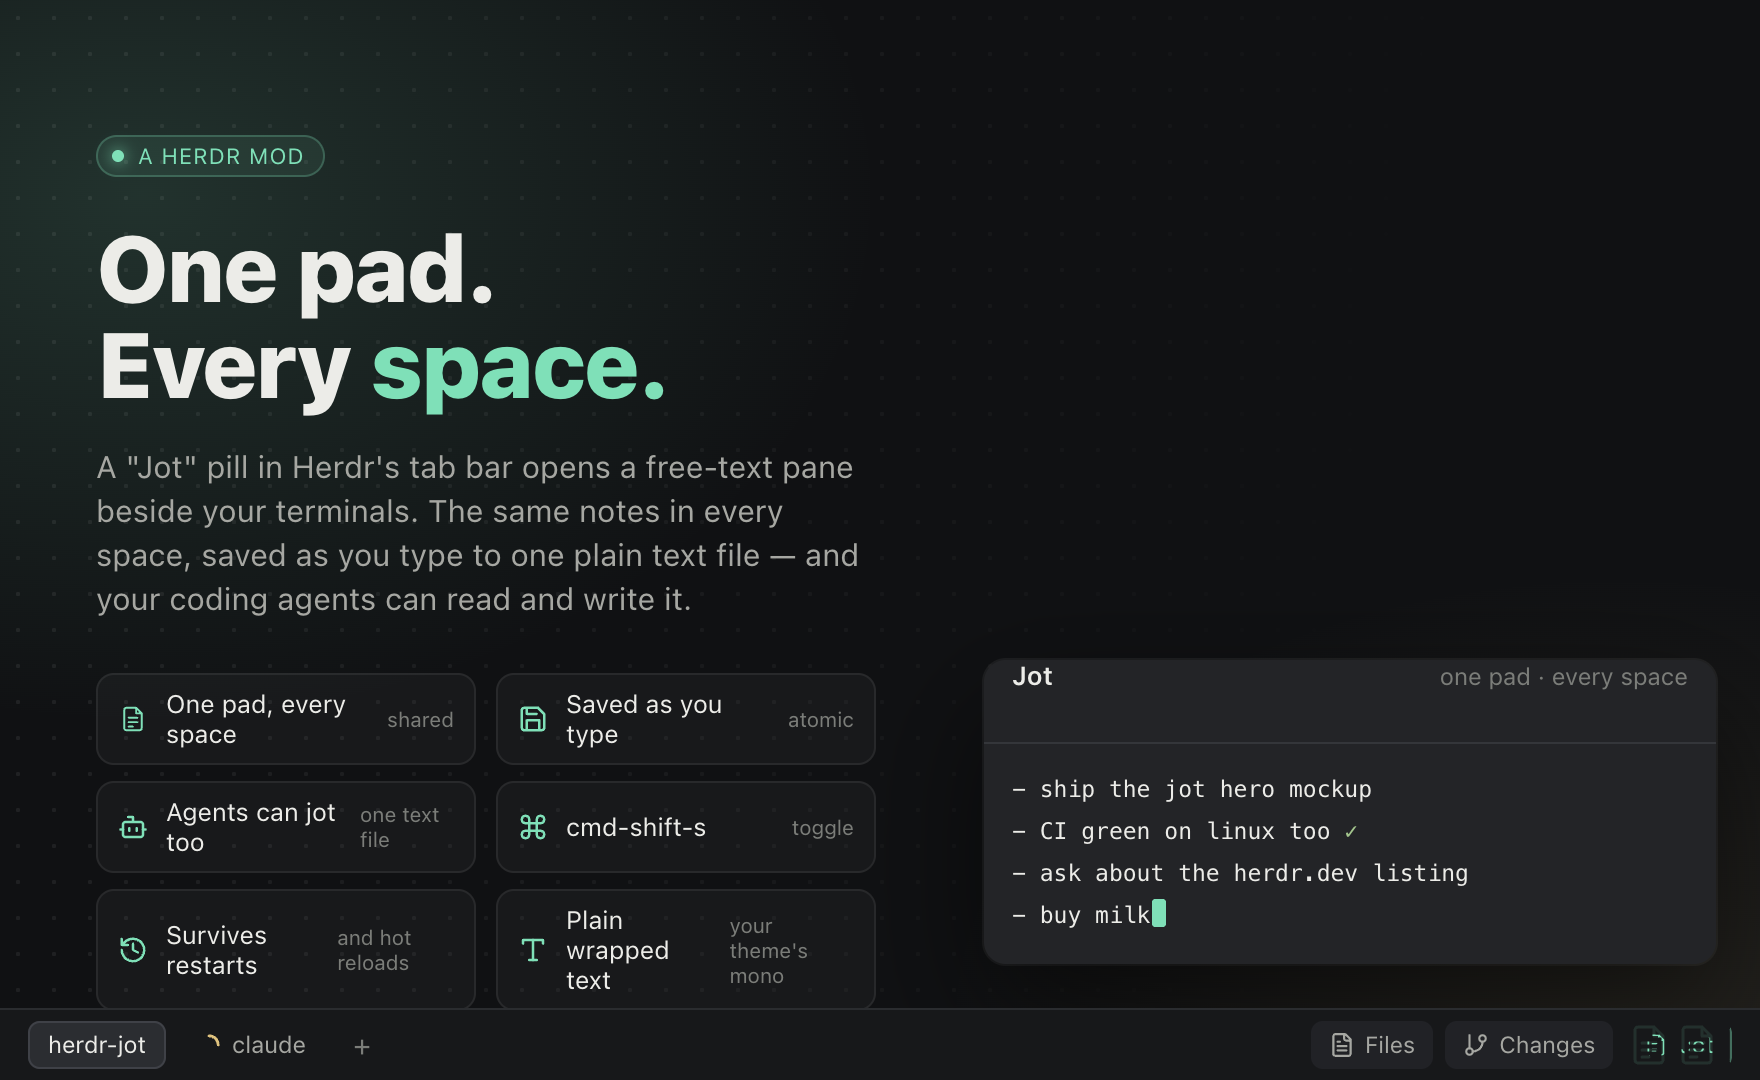
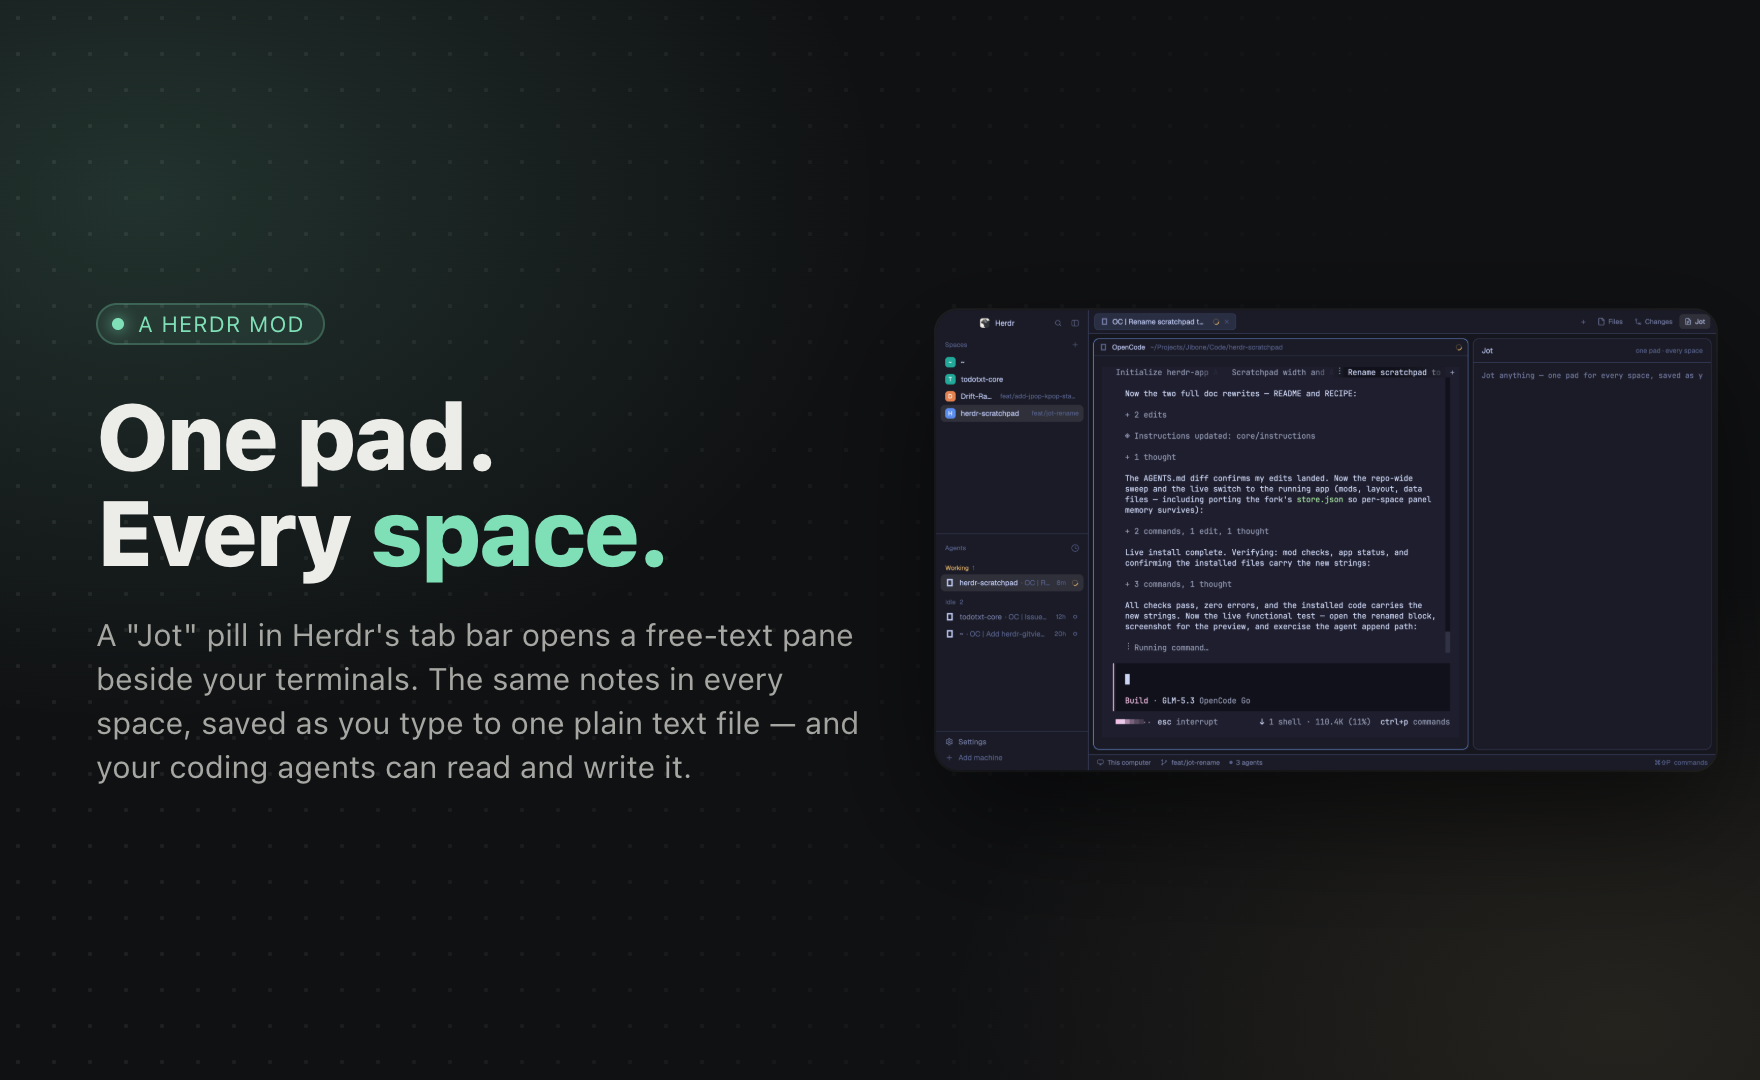
Rework the hero around the real screenshot
The 6-chip roster, the mock jot card and the fake tab strip are gone; the
right side now frames the real window screenshot (recovered from git as
assets/screenshot.png). README gains a 'What it looks like' section with
the real screenshot; RECIPE's illustration points at it too; Credits and
AGENTS.md follow.

diff --git a/assets/src/hero.html b/assets/src/hero.html
@@ -1,11 +1,8 @@
 <!doctype html>
 <html><head><meta charset="utf-8">
-<link rel="stylesheet" href="icons.css">
 <style>
   :root {
-    --fg: #ecece8; --muted: #a6a7a2; --dim: #7b7d79; --line: #34363a;
-    --ok: #a3c58d; --panel: #232427; --mint: #7fe0b8; --chrome: #17181a;
-    --raised: #2b2d31; --edge: #3f4147;
+    --fg: #ecece8; --muted: #a6a7a2; --mint: #7fe0b8;
   }
   * { box-sizing: border-box; margin: 0; padding: 0; }
   html, body { width: 880px; height: 540px; overflow: hidden; }
@@ -24,7 +21,7 @@
     -webkit-mask-image: linear-gradient(100deg, #000 0%, rgba(0,0,0,.55) 45%, transparent 75%);
   }
 
-  .copy { position: absolute; left: 48px; top: 66px; width: 410px; }
+  .copy { position: absolute; left: 48px; top: 150px; width: 410px; }
   .eyebrow { display: inline-flex; align-items: center; gap: 7px; font-size: 11px; letter-spacing: .6px;
     text-transform: uppercase; color: var(--mint); padding: 4px 10px 4px 8px; border-radius: 999px;
     background: rgba(127,224,184,.08); box-shadow: inset 0 0 0 1px rgba(127,224,184,.25); }
@@ -33,88 +30,19 @@
   h1 em { font-style: normal; color: var(--mint); }
   .lede { margin-top: 16px; font-size: 15.5px; line-height: 22px; color: var(--muted); width: 396px; }
 
-  .roster { margin-top: 26px; display: grid; grid-template-columns: 1fr 1fr; gap: 8px 10px; width: 390px; }
-  .agent { display: flex; align-items: center; gap: 9px; padding: 8px 11px; border-radius: 9px;
-    background: rgba(255,255,255,.035); box-shadow: inset 0 0 0 1px rgba(255,255,255,.07); font-size: 12.6px; }
-  .agent small { margin-left: auto; font-size: 10.4px; color: var(--dim); }
-  .agent .ico { width: 15px; height: 15px; }
-
-  .ico { display: inline-block; width: 14px; height: 14px; flex: none;
-    background-color: currentColor; -webkit-mask: center/contain no-repeat; }
-  .jot { -webkit-mask-image: var(--i-jot); color: var(--mint); }
-  .save { -webkit-mask-image: var(--i-save); color: var(--mint); }
-  .bot { -webkit-mask-image: var(--i-bot); color: var(--mint); }
-  .command { -webkit-mask-image: var(--i-command); color: var(--mint); }
-  .history { -webkit-mask-image: var(--i-history); color: var(--mint); }
-  .type { -webkit-mask-image: var(--i-type); color: var(--mint); }
-  .file { -webkit-mask-image: var(--i-file); color: var(--muted); }
-  .branch { -webkit-mask-image: var(--i-branch); color: var(--muted); }
-
-  .pad {
-    position: absolute; right: 22px; bottom: 58px; width: 366px;
-    background: var(--panel); border-radius: 11px;
+  .shot {
+    position: absolute; right: 22px; top: 50%; transform: translateY(-50%);
+    width: 390px; border-radius: 11px; overflow: hidden;
     box-shadow: 0 24px 60px rgba(0,0,0,.55), 0 0 0 1px rgba(255,255,255,.06);
   }
-  .pad-head { display: flex; align-items: baseline; gap: 8px; height: 42px; padding: 0 14px;
-    border-bottom: 1px solid var(--line); }
-  .pad-head b { font-size: 13px; font-weight: 600; }
-  .pad-head span { margin-left: auto; font-size: 12px; color: var(--dim); }
-  .pad-body { padding: 12px 14px 14px; font-family: "JetBrains Mono", "SF Mono", ui-monospace, Menlo, monospace;
-    font-size: 11.5px; line-height: 21px; color: var(--fg); white-space: pre; }
-  .check { color: var(--ok); }
-  .caret { display: inline-block; width: 7px; height: 14px; margin-left: 1px; vertical-align: -2px;
-    border-radius: 1.5px; background: var(--mint); }
-
-  .bar {
-    position: absolute; left: 0; right: 0; bottom: 0; height: 36px;
-    display: flex; align-items: center; gap: 6px;
-    padding: 0 14px; background: var(--chrome); border-top: 1px solid #2a2c2f;
-    font-size: 11.6px; white-space: nowrap;
-  }
-  .tab { display: flex; align-items: center; gap: 6px; height: 24px; padding: 0 10px; border-radius: 6px;
-    color: var(--muted); font-size: 11.8px; }
-  .tab.on { background: var(--raised); color: var(--fg); box-shadow: inset 0 0 0 1px var(--edge); }
-  .spin { width: 11px; height: 11px; flex: none; }
-  .plus { display: flex; align-items: center; justify-content: center; width: 24px; height: 24px;
-    border-radius: 6px; color: var(--dim); font-size: 14px; }
-  .gap { flex: 1; }
-  .pill { display: flex; align-items: center; gap: 5px; height: 24px; padding: 0 9px; border-radius: 6px;
-    background: #212226; color: var(--muted); font-size: 11.6px; }
-  .pill .ico { width: 13px; height: 13px; }
-  .pill.jot { background: rgba(127,224,184,.12); color: var(--mint);
-    box-shadow: inset 0 0 0 1px rgba(127,224,184,.35); }
+  .shot img { display: block; width: 100%; }
 </style></head>
 <body>
   <div class="copy">
     <span class="eyebrow"><i></i>A Herdr mod</span>
     <h1>One pad.<br>Every <em>space.</em></h1>
     <p class="lede">A "Jot" pill in Herdr's tab bar opens a free-text pane beside your terminals. The same notes in every space, saved as you type to one plain text file — and your coding agents can read and write it.</p>
-    <div class="roster">
-      <div class="agent"><span class="ico jot"></span>One pad, every space<small>shared</small></div>
-      <div class="agent"><span class="ico save"></span>Saved as you type<small>atomic</small></div>
-      <div class="agent"><span class="ico bot"></span>Agents can jot too<small>one text file</small></div>
-      <div class="agent"><span class="ico command"></span>cmd-shift-s<small>toggle</small></div>
-      <div class="agent"><span class="ico history"></span>Survives restarts<small>and hot reloads</small></div>
-      <div class="agent"><span class="ico type"></span>Plain wrapped text<small>your theme's mono</small></div>
-    </div>
   </div>
 
-  <div class="pad">
-    <div class="pad-head"><b>Jot</b><span>one pad · every space</span></div>
-    <div class="pad-body">- ship the jot hero mockup
-- CI green on linux too <span class="check">✓</span>
-- ask about the herdr.dev listing
-- buy milk<span class="caret"></span></div>
-  </div>
-
-  <div class="bar">
-    <div class="tab on">herdr-jot</div>
-    <div class="tab"><svg class="spin" viewBox="0 0 12 12"><path d="M6 1a5 5 0 0 1 5 5" stroke="#dfc27e" stroke-width="1.6" fill="none" stroke-linecap="round"/></svg>claude</div>
-    <div class="plus">+</div>
-    <div class="gap"></div>
-    <div class="pill"><span class="ico file"></span>Files</div>
-    <div class="pill"><span class="ico branch"></span>Changes</div>
-    <div class="pill jot"><span class="ico jot"></span>Jot</div>
-  </div>
-
+  <div class="shot"><img src="../screenshot.png" alt="Herdr running the jot pad"></div>
 </body></html>

diff --git a/README.md b/README.md
@@ -1,6 +1,6 @@
 # herdr-jot
 
-[![One pad for every space: the jot pane open on the right with the day's notes and a caret after "buy milk", the Files, Changes and Jot pills in the tab bar at the bottom, Jot active](assets/hero.png)](assets/hero.png)
+[![One pad for every space: the headline on the left, the real Herdr window on the right with the Jot pill in its tab bar and the pane open beside the terminals](assets/hero.png)](assets/hero.png)
 
 A **Herdr app plugin**: one Jot pad for the whole app.
 
@@ -8,13 +8,19 @@ A **Herdr app plugin**: one Jot pad for the whole app.
 
 **The same notes in every space, saved as you type to one plain text file — a file your coding agents can read and write too.**
 
-[Install](#install) · [What you get](#what-you-get) · [Develop](#develop) · [Notes](#notes--trade-offs) · [Recipe](RECIPE.md)
+[What it looks like](#what-it-looks-like) · [What you get](#what-you-get) · [Install](#install) · [Develop](#develop) · [Notes](#notes--trade-offs) · [Recipe](RECIPE.md)
 
 A "Jot" pill sits in the tab bar next to Files and Changes. Click it
 (or press `cmd-shift-s`) and a free-text pane opens on the right side of the
 window. It's one pad for the whole app: the same text in every space, saved
 as you type to a single text file, still there after a restart or a hot
 reload.
+
+## What it looks like
+
+![The pad running in Herdr: the Jot pill between Files and Changes in the tab bar, the pane open on the right of the terminals](assets/screenshot.png)
+
+The real window running the pad — the mockup above only sets the scene.
 
 ## What you get
 
@@ -128,7 +134,7 @@ request and push to `master`; a pull request merges only when both pass.
 | `layouts/main-copy.json` | this machine's daily layout, grafted — `RECIPE.md` describes the generic graft |
 | `keys.json` | the `cmd-shift-s` binding to merge by hand |
 | `test/quality/`, `tools/quality/` | the quality gate `npm test` runs after the mod's tests |
-| `assets/` | the README hero image and its source (`assets/src/hero.html`) |
+| `assets/` | the hero image, its source (`assets/src/hero.html`), and the real screenshot it embeds |
 | `.github/workflows/` | CI: `npm test` on Linux and macOS |
 | `RECIPE.md` | the brief to rebuild the whole plugin from scratch |
 | `AGENTS.md` | instructions for coding agents working in this repo |
@@ -155,10 +161,9 @@ request and push to `master`; a pull request merges only when both pass.
 
 `mods/tabs-jot/` is a fork of Herdr's shipped `tabs` mod, kept verbatim
 except for its one change set (the fork's header comment lists it).
-`assets/hero.png` and `preview.png` are mockups of the pad with sample
-notes, rendered from `assets/src/hero.html` (headless Chrome, 880×540 at 2×
-and 1.591×): the pad's glyph is the mod's own `icon.svg`, the other icons
-are from [Lucide](https://lucide.dev) (ISC).
+`assets/hero.png` and `preview.png` render from `assets/src/hero.html`
+(headless Chrome, 880×540 at 2× and 1.591×): the mockup's right side is
+the real app, committed as `assets/screenshot.png`.
 
 ## License
 

diff --git a/AGENTS.md b/AGENTS.md
@@ -72,7 +72,8 @@ mods/tabs-jot/           a fork of Herdr's shipped tabs mod: the "Jot"
                          pill after Files/Changes and per-space open memory.
                          Frozen at the version it was forked from.
 test/quality/, tools/    the quality gate npm test runs after the mod's tests
-assets/                  the README hero image and its source (src/hero.html)
+assets/                  the hero image, its source (src/hero.html), and the real
+                         window screenshot the mockup embeds (screenshot.png)
 .github/workflows/       CI: npm test on Linux and macOS, one workflow each
 RECIPE.md                the brief to rebuild all of this from scratch
 preview.png              a mockup of the pad with sample notes (from assets/src/hero.html)
@@ -130,7 +131,10 @@ docks nothing on its own.
   `"/Applications/Google Chrome.app/Contents/MacOS/Google Chrome"
   --headless=new --hide-scrollbars --screenshot=<out> --window-size=880,540
   --force-device-scale-factor=<2 | 1.591> "file://…/assets/src/hero.html"`.
-  Change the mockup, not the PNGs; re-render both after.
+  Change the mockup, not the PNGs; re-render both after. The mockup's right
+  side embeds the real window screenshot, committed as
+  `assets/screenshot.png` — replace it only with another real
+  `herdr-app shot`, never with a render.
 - The repo's layout file is this machine's personal integration (it
   references other mods the person has installed); `RECIPE.md` describes the
   two grafts that install the plugin on any main-derived layout.

diff --git a/RECIPE.md b/RECIPE.md
@@ -7,7 +7,7 @@ screen, saved as you type to one text file. That file is the pad's whole
 interface: a coding agent told to "jot it down" appends to it, and the pad
 shows the note a moment later.
 
-![Jot](preview.png)
+![Jot](assets/screenshot.png)
 
 ## What you see
 
